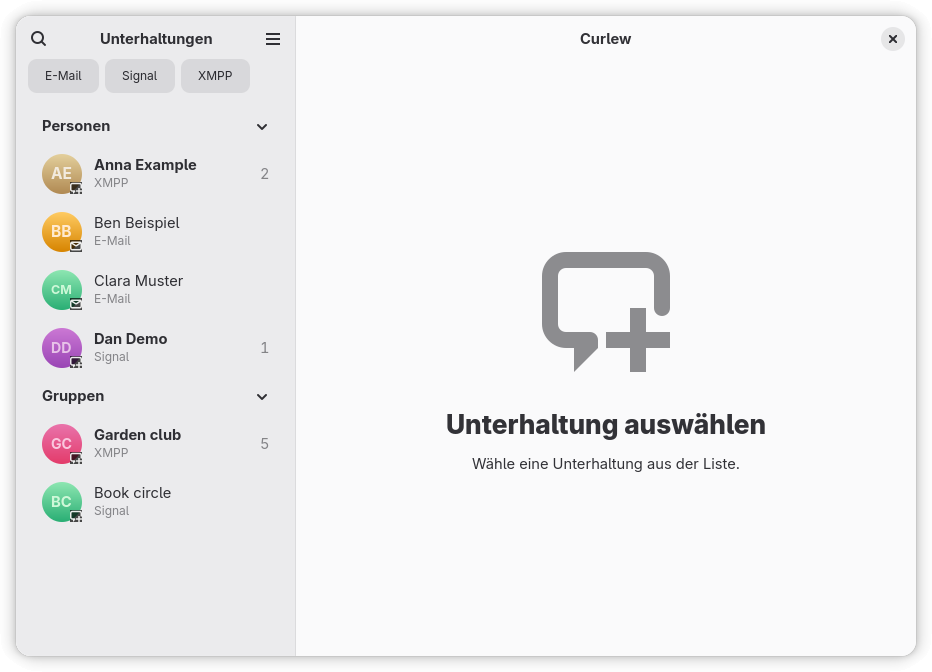
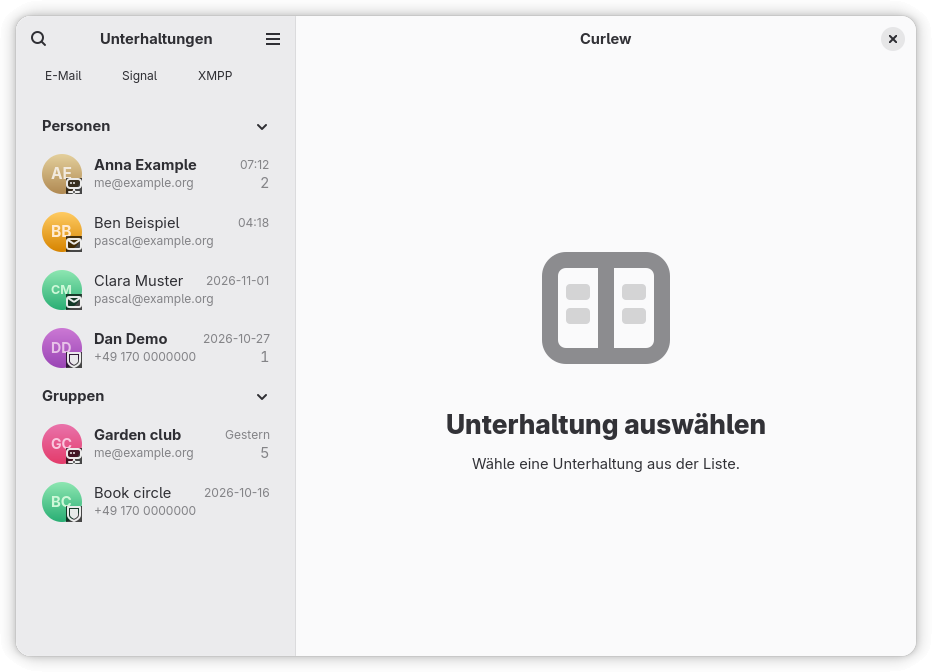
docs(gtk): refresh screenshots and row rules

diff --git a/docs/design/ui.md b/docs/design/ui.md
@@ -76,7 +76,10 @@ All contacts, channels and groups of every messenger in **one** list.
 - Sections (collapsible): People, Groups; later Favourites and Channels.
 - **Filters are toggle chips**, not tabs: one per protocol, shown only when there is a choice; once a
   protocol is chosen, one per account of it, if it has several.
-- Row: avatar with protocol badge, title, a line naming the protocol, the unread marker.
+- Row: avatar with protocol badge (the protocol is shown ONLY there, never as text), title with a
+  short time right-aligned, a subtitle line with the unread marker at its end. The subtitle is a
+  one-line preview of the last message (Fractal, Flare) once the index stores one; until then it
+  names the account.
 - Unread has three tiers: an **accent count** (a mention), a **grey count** (unread), a **dot**
   (activity without a count); the title is bold while unread.
 - Future: grouping one person across messengers by hand. A separate ADR; the leaning is that
@@ -90,7 +93,13 @@ Not built, future work: the **accent count** and the **dot**. The index keeps on
 per conversation; a mention and activity-without-count need the backends to store that state in
 the index first. Until then only the grey tier exists.
 
-Protocol badges are neutral themed symbolic icons (mail, chat) with a tooltip naming the protocol.
+Also not built: the **last-message preview**. The index keeps the time (`last_message_at`, shown) but
+no preview text on the conversation row; chat bodies sit in `conversation_messages` and mail bodies
+only in the FTS table, so a preview needs a per-conversation column filled at sync time.
+
+Protocol badges are 16 px themed Adwaita symbolic icons, one distinct icon per protocol (mail:
+envelope, XMPP: server, Signal: shield, Matrix: globe of nodes, Telegram: paper plane, WhatsApp:
+phone), with a tooltip naming the protocol.
 The protocols' logos have their own trademark licences, so Curlew ships none.
 
 ## Conversation view (documented, not built)
